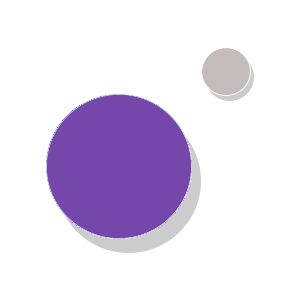
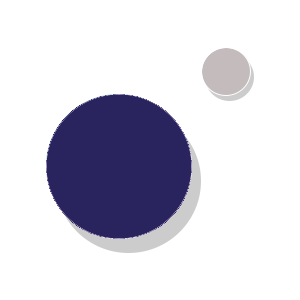
alterações

Changed region(s): [[0.15, 0.3, 0.66, 0.81]]

diff --git a/index.html b/index.html
@@ -38,56 +38,32 @@
                         <div class="botao">
                             <button onclick="window.location.href='#'">1</button>
                         </div>
-                        <h2>Conteúdo Inicial</h2>
+                        <h2>Sequência Simples</h2>
                     </li>
                     <li class="nivel">
                         <div class="botao2">
                             <button onclick="window.location.href='#'">2</button>
                         </div>
-                        <h2>Condicionais P.1</h2>
+                        <h2>Condicionais Simples</h2>
                     </li>
                     <li class="nivel">
                         <div class="botao">
                             <button onclick="window.location.href='#'">3</button>
                         </div>
-                        <h2>Condicionais P.2</h2>
+                        <h2>Condicionais Duplas</h2>
                     </li>
                     <li class="nivel">
                         <div class="botao2">
                             <button onclick="window.location.href='#'">4</button>
                         </div>
-                        <h2>Em breve</h2>
+                        <h2>Repetições</h2>
                     </li>
                 </ul>
             </div>
         </div>
         <div class="robo">
             <img src="/assets/robo2.gif" alt="">
-        </div>
-        <div class="ajuda">
-            <div class="titulo">
-                <h1>SAIBA MAIS</h1>
-            </div>
-            <div class="video">
-                <button id="abrir-modal">
-                    
-                </button>
-
-                <div id="modal" class="modal">
-                <div class="modal-conteudo">
-                    <span class="fechar">&times;</span>
-                    <video src="/assets/video.mp4" class="modal-video" controls autoplay></video>
-                </div>
-                </div>
-
-                <div id="fundo-modal" class="fundo-modal"></div>
-            </div>
-        </div>  
-         
+        </div>    
     </main>
-    
-    <script src="/script.js"></script>
-    <script type="module" src="https://unpkg.com/ionicons@7.1.0/dist/ionicons/ionicons.esm.js"></script>
-    <script nomodule src="https://unpkg.com/ionicons@7.1.0/dist/ionicons/ionicons.js"></script>
 </body>
 </html>

diff --git a/styles.css b/styles.css
@@ -29,9 +29,9 @@ body {
     flex-direction: row;
     margin: 0 auto;
     background-color: var(--controle);
-    height: 160px;
-    width: 510px;
-    border-radius: 160px;
+    height: 140px;
+    width: 470px;
+    border-radius: 140px;
     justify-content: center;
     box-shadow: 0px 9px 15px rgba(0, 0, 0, 0.3);
     border: 1px solid #14c8ff;
@@ -109,7 +109,7 @@ main {
 
 .titulo {
     width: 60%;
-    height: 60px;
+    height: 50px;
     text-align: center;
     align-items: center;
     justify-content: center;
@@ -122,13 +122,13 @@ main {
 }
 
 .titulo h1 {
-    font-size: xx-large;
+    font-size: x-large;
     font-family: 'VT323', monospace;
     color: #15b6e6;
 }
 
 .selecao {
-    margin-top: 30px;
+    margin-top: 25px;
     text-align: center;
     align-items: center;
     justify-content: center;
@@ -136,8 +136,8 @@ main {
     flex-direction: column;
     background-color: rgb(218, 217, 217);
     width: 90%;
-    padding-top: 20px;
-    padding-bottom: 10px;
+    padding-top: 10px;
+    padding-bottom: 5px;
     box-shadow: 0px 9px 15px rgba(0, 0, 0, 0.3);
     border-radius: 20px;
 }
@@ -171,11 +171,11 @@ li {
 }
 
 .botao button {
-    background-color: #cc4385;
+    background-color: #2a245e;
     font-family: 'VT323', monospace;
     font-size: xx-large;
-    color: #ff71b6;
-    padding: 15px 25px;
+    color: #5648d0;
+    padding: 10px 20px;
     border: none;
     cursor: pointer;
     border-radius: 100%;
@@ -189,7 +189,7 @@ li {
 
 .botao2 {
     padding: 5px;
-    background-color: #cc4385;
+    background-color: #2a245e;
     border-radius: 20px;
 }
 
@@ -198,24 +198,25 @@ li {
     font-family: 'VT323', monospace;
     font-size: xx-large;
     color: #59d7fe;
-    padding: 15px 25px;
+    padding: 10px 20px;
     border: none;
     cursor: pointer;
     border-radius: 100%;
-    border: 2px solid #ff54a7;
+    border: 2px solid #5648d0;
 }
   
 .botao2 button:hover {
-    color: #cc4385;
+    color: #5648d0;
     transform: scale(1.2);
 }
 
 .robo {
     flex: 1;
+    align-items: center;
 }
 
 .robo img {
-    width: 100%;
+    width:70%;
 }
 
 .ajuda {
